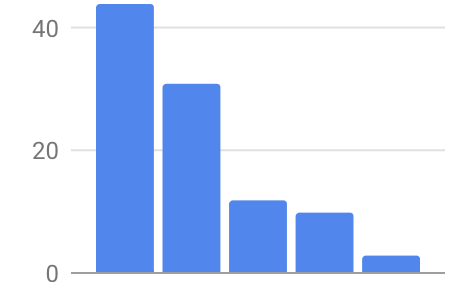
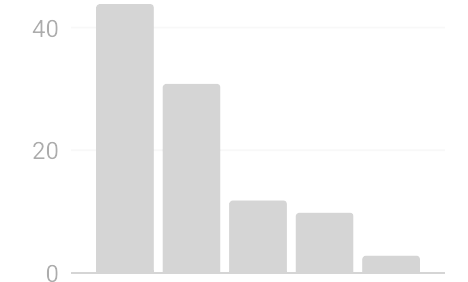
les placeholders des graphes sont désormais en niveaux de gris

Changed region(s): [[0.0897, 0.0, 0.9573, 1.0], [0.0598, 0.4823, 0.1496, 0.5674], [0.0598, 0.0567, 0.1496, 0.1418]]

diff --git a/views/index_html.php b/views/index_html.php
@@ -13,7 +13,7 @@ define("__ASSET_IMAGE_URL__", __CA_URL_ROOT__."/app/plugins/suiviInventaireEglis
             <h2>CIPAR</h2>
             <div class="chart-container">
                 <div id="cipar">
-                    <!--<img src="<?php print __ASSET_IMAGE_URL__; ?>/pie.png"/>-->
+                    <img src="<?php print __ASSET_IMAGE_URL__; ?>/pie.png"/>
                 </div>
             </div>
         </div>
@@ -137,12 +137,13 @@ define("__ASSET_IMAGE_URL__", __CA_URL_ROOT__."/app/plugins/suiviInventaireEglis
     .chart-container {
         text-align: center;
     }
-    #piechart img {
-        max-width: 40%;
-    }
-    .chart-container img {
-        max-width: 100%;
+    .suiviInventaire img {
+        max-width: 80%;
         height: auto;
+    }
+    #cipar img {
+        width: auto;
+        max-height: 240px;
     }
 </style>
 
@@ -200,7 +201,8 @@ define("__ASSET_IMAGE_URL__", __CA_URL_ROOT__."/app/plugins/suiviInventaireEglis
             width: "100%", height: 120
         };
         var histogram_options = {
-            legend: { position: 'none' }
+            legend: { position: 'none' },
+            height: 120
         };
 
         // Create our data table out of JSON data loaded from server.
